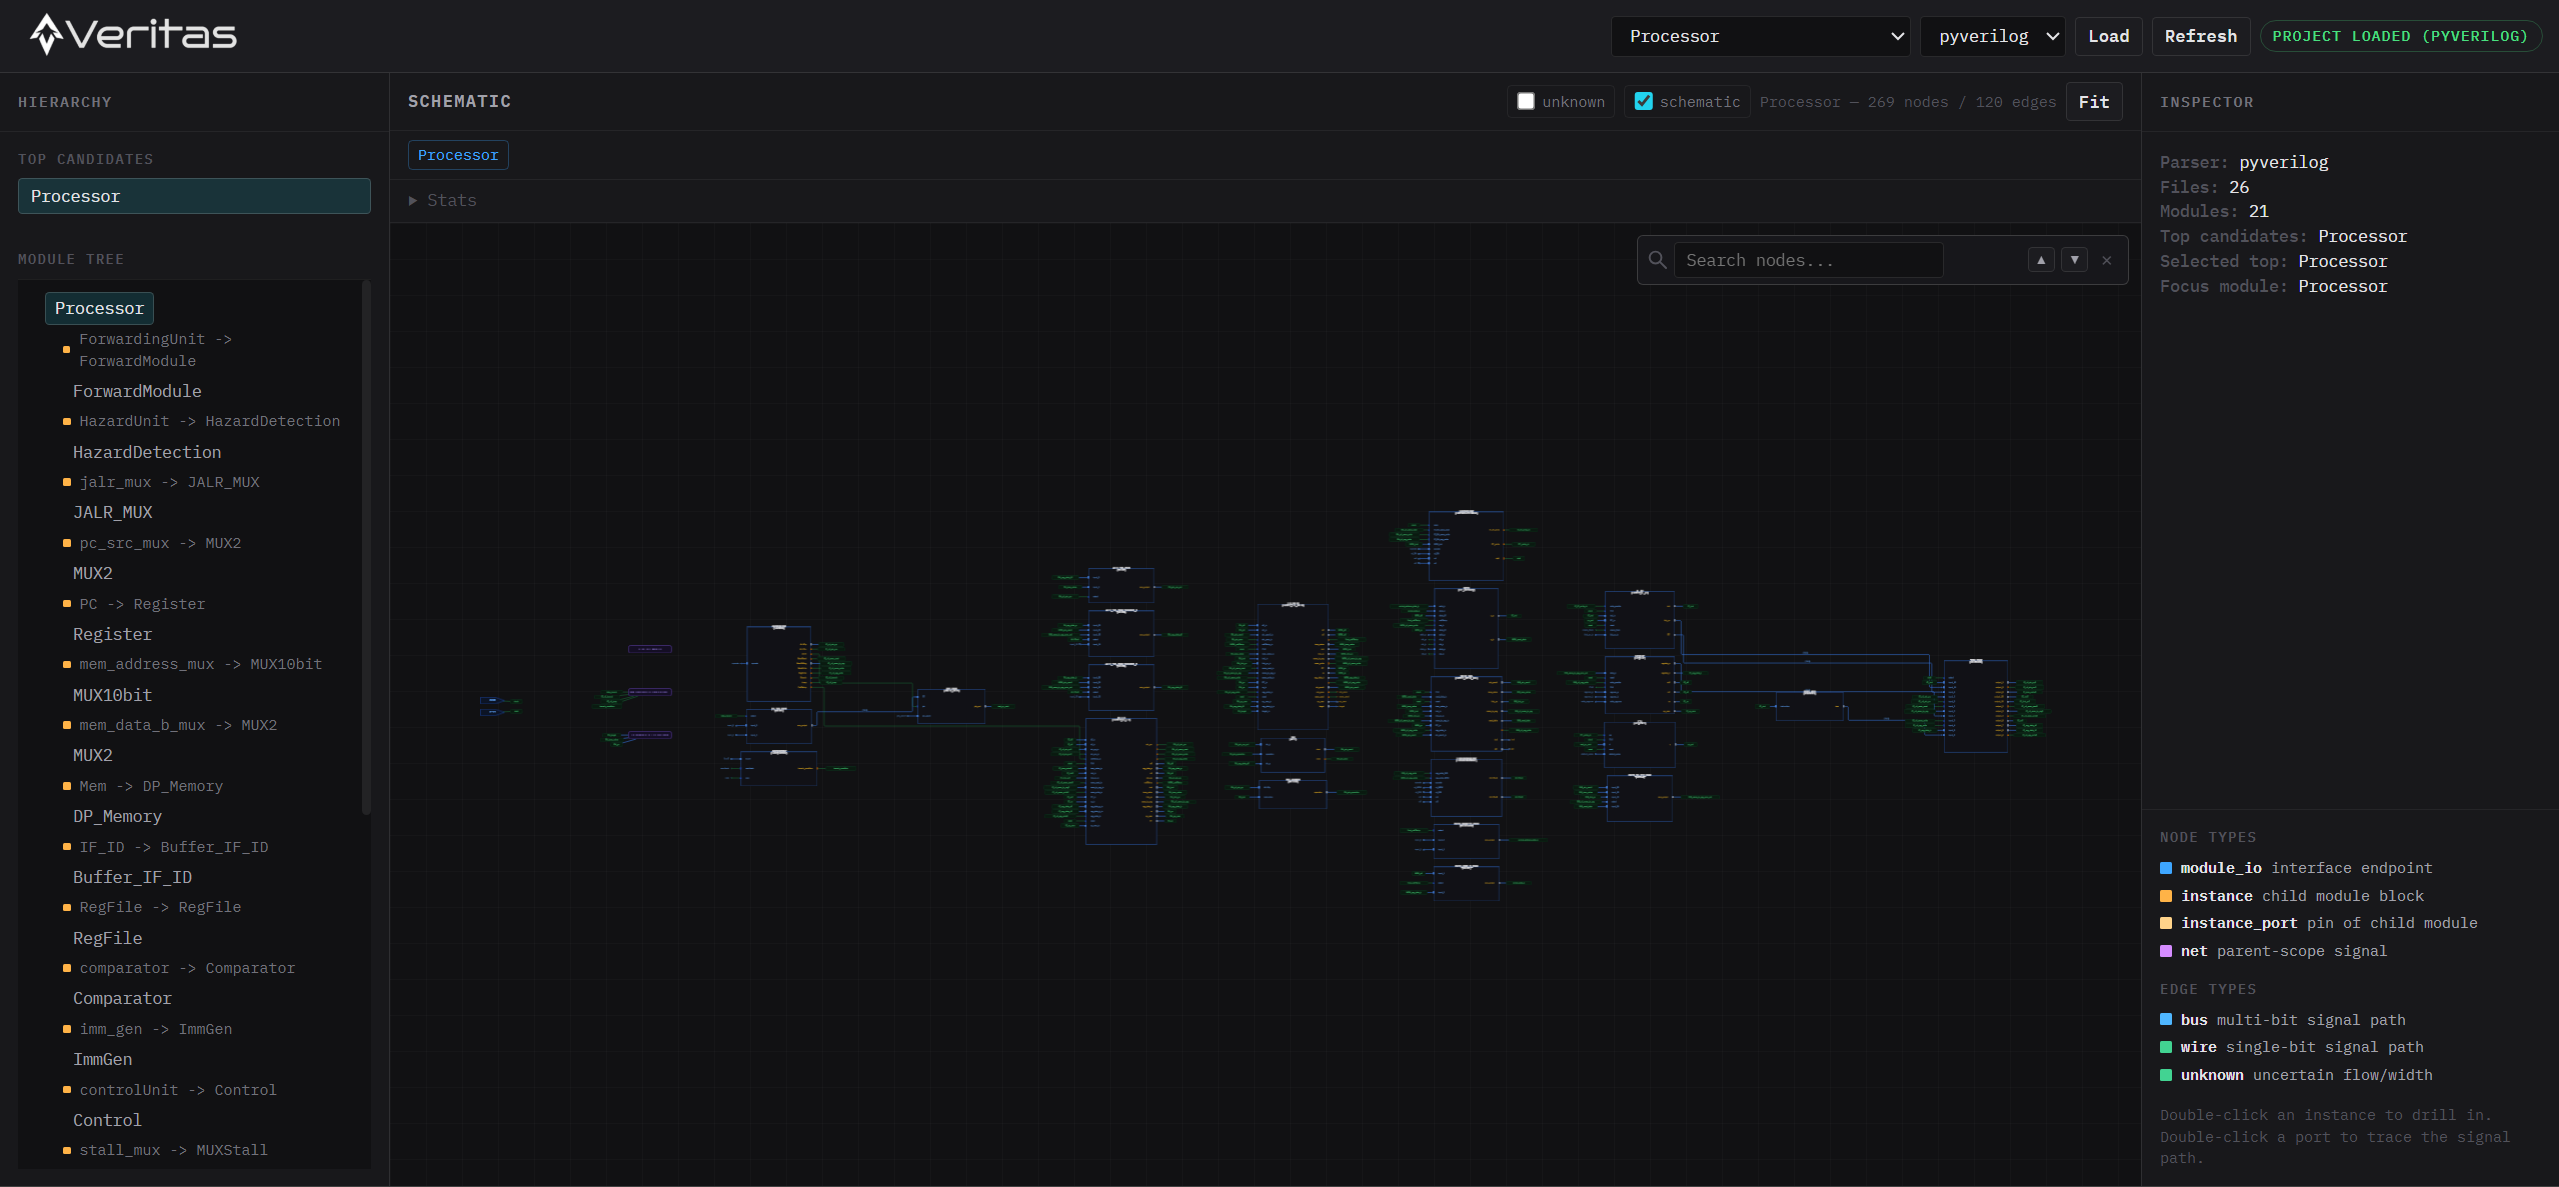
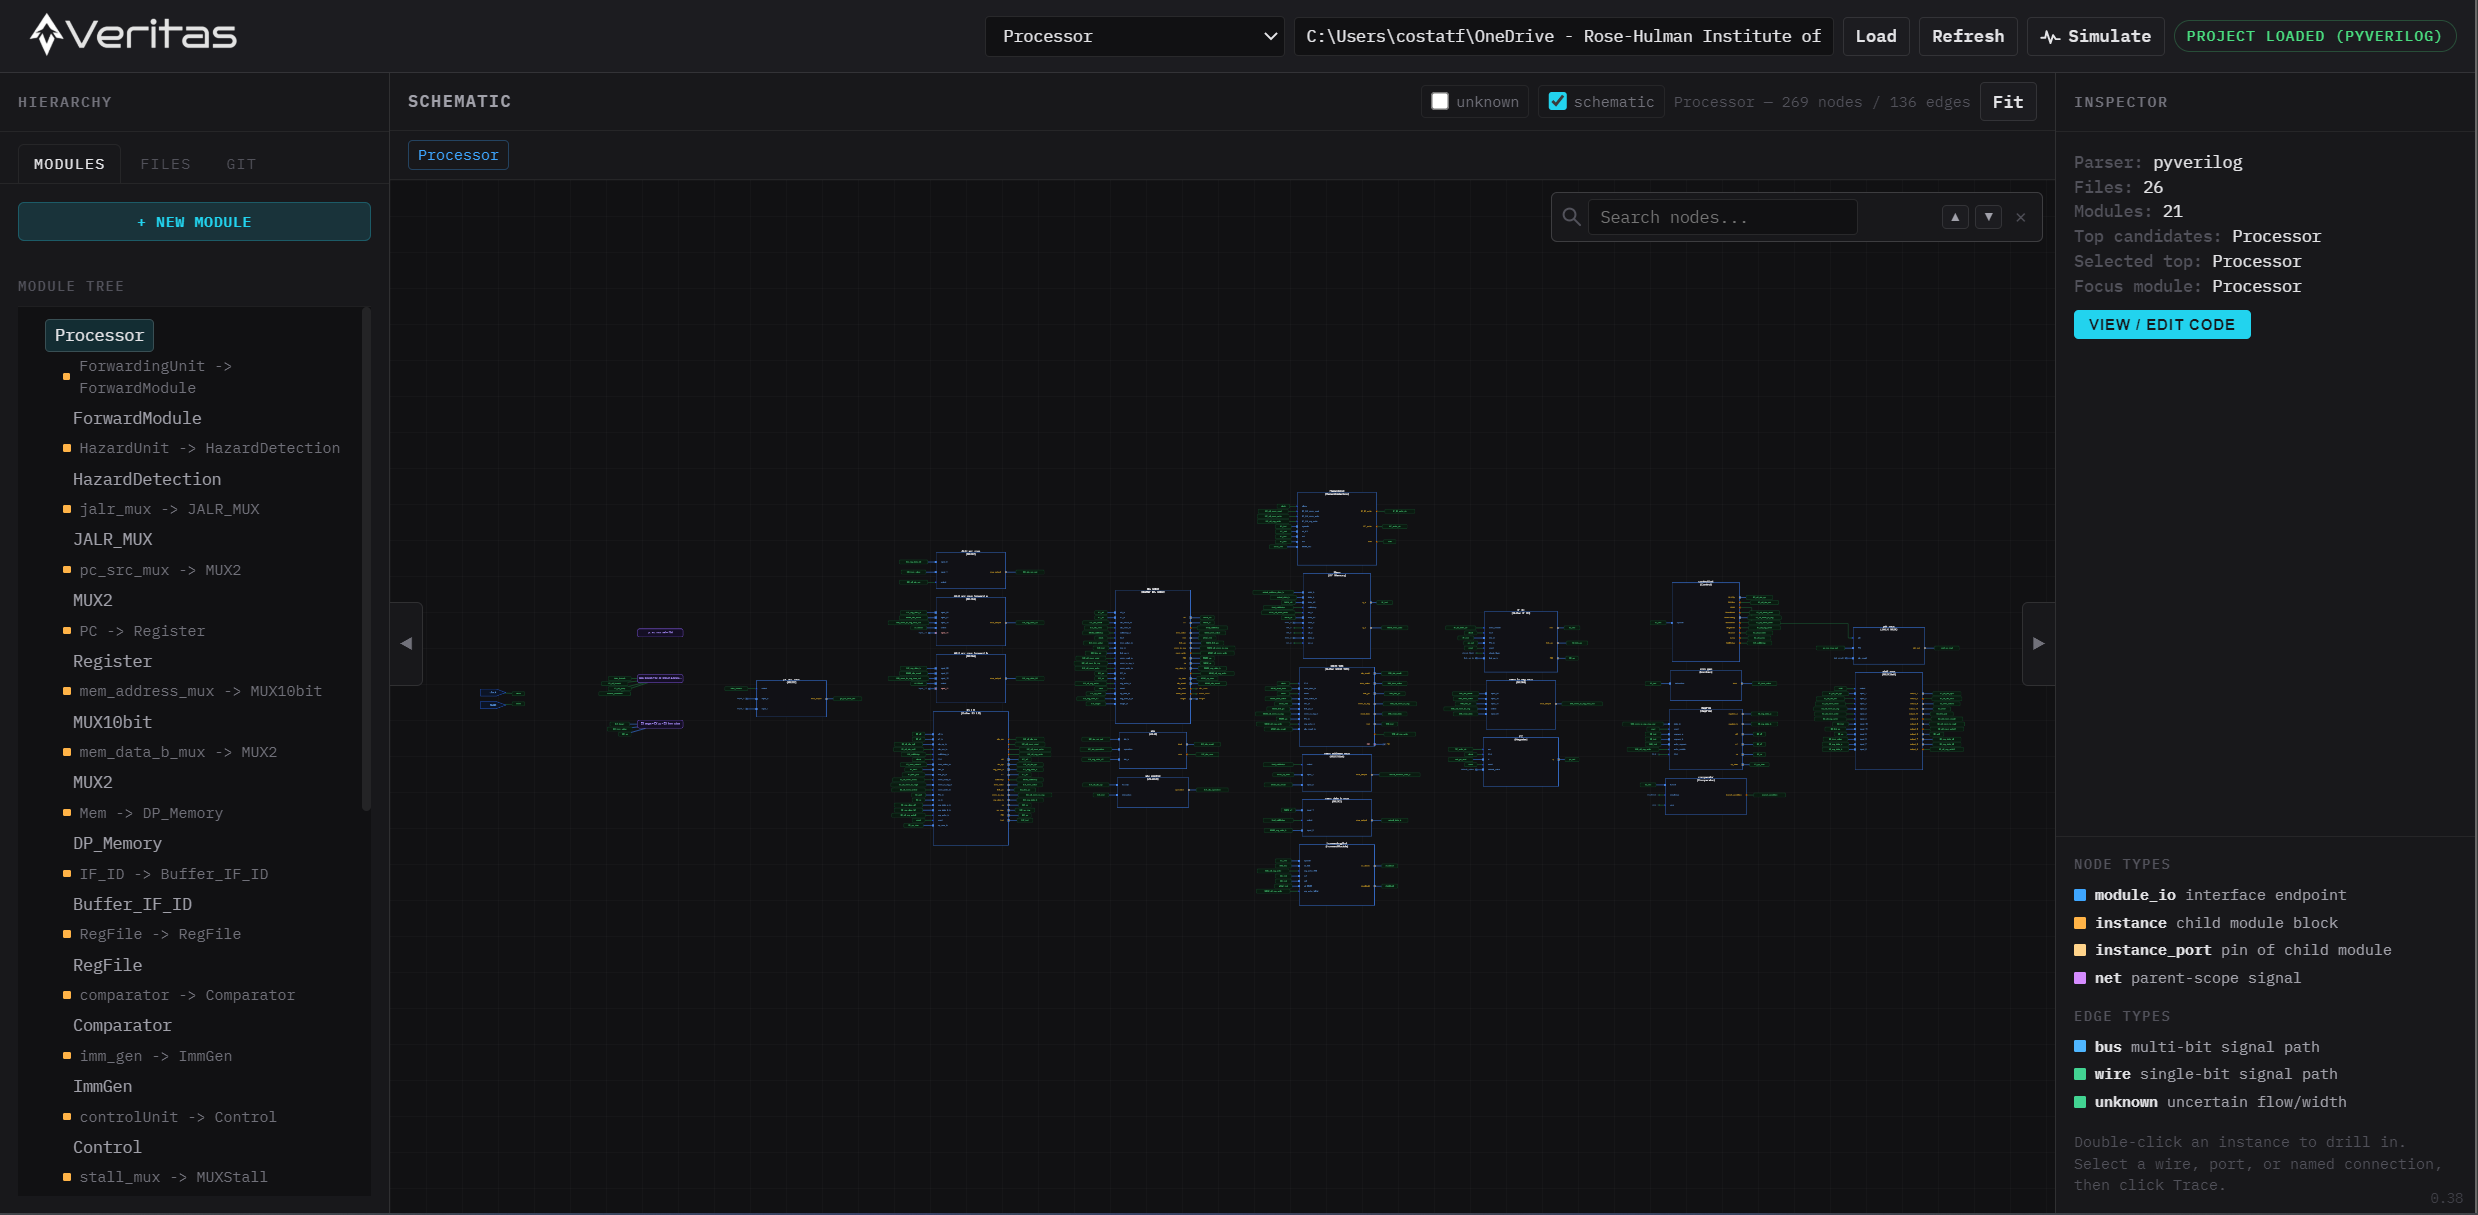
Small UI edit to remove "Top candidate" + new images in README

diff --git a/ui/index.html b/ui/index.html
@@ -83,11 +83,6 @@
 
           <div id="leftTabPanelModules" class="side-tab-panel active" role="tabpanel" aria-labelledby="leftTabModules">
             <section class="panel-section">
-              <h3>Top Candidates</h3>
-              <ul id="topList" class="item-list"></ul>
-            </section>
-
-            <section class="panel-section">
               <button id="createModuleBtn" type="button" class="action-btn" disabled>+ New Module</button>
             </section>
 

diff --git a/ui/app.js b/ui/app.js
@@ -452,6 +452,10 @@ function getRenderableGraph(graph) {
 }
 
 function renderTopList() {
+  if (!topList) {
+    return;
+  }
+
   topList.innerHTML = "";
 
   if (!state.tops.length) {

diff --git a/ui/styles.css b/ui/styles.css
@@ -70,6 +70,10 @@
   box-sizing: border-box;
 }
 
+.hidden {
+  display: none !important;
+}
+
 html,
 body {
   margin: 0;

diff --git a/README.md b/README.md
@@ -6,6 +6,8 @@
 
 ![Current state of the software](docs/images/mvp_ui.png)
 
+![Current state of the simulation screen](docs/images/simulation_screen.png)
+
 ## Current Capabilities
 
 - Recursive `.v` / `.sv` discovery with hidden-file filtering and a few common directory exclusions.
